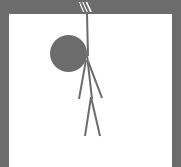
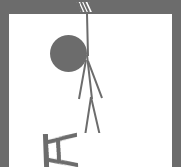
uses a service to validate whether or not the game is in progress before adding a guess. Better use of flash messages. Moved some game logic into Game from the helper class. updated graphics and added a winning graphic. Still uses the (apparently) awful colour scheme

Changed region(s): [[0.221, 0.7784, 0.442, 1.0], [0.5249, 0.7784, 0.5525, 0.8084], [0.4696, 0.7784, 0.4972, 0.8084]]

diff --git a/app/assets/stylesheets/games.css.scss b/app/assets/stylesheets/games.css.scss
@@ -20,6 +20,10 @@ ul {
   list-style: none;
 }
 
+a:link {
+  text-decoration: none;
+}
+
 .guess_list {
   padding: 10px;
 }
@@ -38,8 +42,8 @@ ul {
   border-radius: 5px;
   text-align: center;
   background: #8bef00;
-  -webkit-box-shadow: 5px 5px 1px 0 rgba(0,0,0,0.7) ;
-  box-shadow: 5px 5px 1px 0 rgba(0,0,0,0.7) ;
+  -webkit-box-shadow: 5px 5px 1px 0 rgba(0,0,0,0.5) ;
+  box-shadow: 5px 5px 1px 0 rgba(0,0,0,0.5) ;
   text-shadow: 1px 1px 1px rgba(0,0,0,0.2) ;
   padding: 5%;
   overflow: scroll;
@@ -76,7 +80,7 @@ ul {
 }
 
 .game_won {
-  color: black;
+  color: grey;
 }
 
 .game_lost {
@@ -84,5 +88,5 @@ ul {
 }
 
 .game_in_progress {
-  color: white;
+  color: blue;
 }

diff --git a/app/helpers/games_helper.rb b/app/helpers/games_helper.rb
@@ -10,6 +10,7 @@ module GamesHelper
   end
 
   def hangman_image(game)
+    return "dead_guy_won.png" if game.game_won?
     "dead_guy_#{Game::MAX_LIVES - game.lives_remaining}.png"
   end
 
@@ -20,41 +21,24 @@ module GamesHelper
   end
 
   def end_game_message(game)
-    if game_won?(game)
+    if game.game_won?
       content_tag :span, "YOU WON!", class: :game_won_message
-    elsif game_lost?(game)
+    elsif game.game_lost?
       content_tag :span, "YOU LOST! (the word was #{game.secret_word.upcase})", class: :game_lost_message
     end
   end
 
-  def global_game_statistics
-    total_games = Game.all
-    games_won = total_games.select{|game| game.word_is_guessed?}
-    games_lost = total_games.select{|game| game.lives_remaining <= 0}
-    avg_lives_remaining = games_won.map{|game| game.lives_remaining}.sum / (games_won.length + 0.0)
-
-    "Total games played: #{total_games.length}, Games won: #{games_won.length}, Games lost: #{games_lost.length}, average lives remaining: #{avg_lives_remaining.round(1)}"
-  end
-
-  def game_over?(game)
-    game_won?(game) || game_lost?(game)
-  end
-
-  def game_won?(game)
-    game.word_is_guessed?
-  end
-
-  def game_lost?(game)
-    game.lives_remaining <= 0
+  def global_game_statistics(total_games:, games_won:, games_lost:, avg_lives_remaining:)
+    "Total games played: #{total_games}, Games won: #{games_won}, Games lost: #{games_lost}, average lives remaining: #{avg_lives_remaining.round(1)}"
   end
 
   def game_description(game)
-    if game_won?(game)
+    if game.game_won?
       content_tag :span, "[#{game.secret_word.upcase}] (won with #{game.lives_remaining} lives remaining)", class: :game_won
-    elsif game_lost?(game)
+    elsif game.game_lost?
       content_tag :span, "[#{obscured_word(game)}] (lost, word was: #{game.secret_word.upcase})", class: :game_lost
     else
-      content_tag :span, "IN PROGRESS [#{obscured_word(game.currently_guessed_word)}] (#{game.lives_remaining} lives remaining)", class: :game_in_progress
+      content_tag :span, "IN PROGRESS [#{obscured_word(game)}] (#{game.lives_remaining} lives remaining)", class: :game_in_progress
     end
   end
 end

diff --git a/app/models/game.rb b/app/models/game.rb
@@ -4,7 +4,7 @@ class Game < ActiveRecord::Base
 
   has_many :guessed_letters, dependent: :destroy
 
-  before_validation :setup_new_word
+  before_validation :setup_new_word, on: :create
     #use self.whatever to initialize fields
   validates :secret_word, presence: true
 
@@ -17,16 +17,24 @@ class Game < ActiveRecord::Base
   end
 
   def partially_revealed_word
-    guessed_letters = correct_guesses.map(&:letter)
-    secret_word.chars.map{|letter| letter if guessed_letters.include? letter}
+    correctly_guessed_letters = correct_guesses.map(&:letter)
+    secret_word.chars.map { |letter| letter if correctly_guessed_letters.include?(letter) }
   end
 
   def lives_remaining
     MAX_LIVES - wrong_guesses.length
   end
 
-  def word_is_guessed?
+  def game_won?
     (secret_word.chars.uniq - guessed_letters.map(&:letter).uniq).empty?
+  end
+
+  def game_lost?
+    lives_remaining <= 0
+  end
+
+  def game_over?
+    game_won? || game_lost?
   end
 
   private

diff --git a/app/models/guessed_letter.rb b/app/models/guessed_letter.rb
@@ -5,7 +5,6 @@ class GuessedLetter < ActiveRecord::Base
     presence: true, 
     format: { with: /\A[a-z]\z/ },
     uniqueness: { scope: :game_id }
-  validate :game_is_in_progress?
 
   scope :alphabetical_order, -> { order(:letter) }
 
@@ -14,11 +13,6 @@ class GuessedLetter < ActiveRecord::Base
   end
 
   private
-
-  def game_is_in_progress?
-    #note currently semi-broken as the game will know its over before the record is actually saved and verified
-    errors.add :game_id, 'cannot add guess to a game that is not in progress' if game.lives_remaining < 0 || game.word_is_guessed?
-  end
 
   def downcase_letter
     self.letter = letter.downcase

diff --git a/app/controllers/games_controller.rb b/app/controllers/games_controller.rb
@@ -1,6 +1,14 @@
 class GamesController < ApplicationController
   def index
     @games = Game.all.reverse
+
+    total_games_set = Game.all
+    games_won_set = total_games_set.select{|game| game.game_won?}
+
+    @total_games = total_games_set.length
+    @games_won = games_won_set.length
+    @games_lost = total_games_set.select{|game| game.game_lost?}.length
+    @avg_lives_remaining = games_won_set.map{|game| game.lives_remaining}.sum / (@games_won.to_f)
   end
 
   def show

diff --git a/app/services/make_guess.rb b/app/services/make_guess.rb
@@ -1,0 +1,18 @@
+class MakeGuess
+  def initialize(game:, params:)
+    @game = game
+    @params = params
+  end
+
+  def call
+    if @game.game_over?
+      "cannot make a guess as the game is already over!"
+    else
+      guessed_letter = @game.guessed_letters.build(@params.require(:guessed_letter).permit(:letter))
+
+      unless guessed_letter.save
+        "Something is borked. #{guessed_letter.errors.full_messages.to_sentence}"
+      end
+    end
+  end
+end

diff --git a/app/controllers/guessed_letters_controller.rb b/app/controllers/guessed_letters_controller.rb
@@ -1,10 +1,11 @@
 class GuessedLettersController < ApplicationController
   def create
     game = Game.find(params[:game_id])
+    make_guess = MakeGuess.new(game: game, params: params)
     
-    guessed_letter = game.guessed_letters.create(params.require(:guessed_letter).permit(:letter))
-    
-    guessed_letter.save
+    error = make_guess.call
+    flash.alert = error if error
+
     redirect_to game
   end
 end
